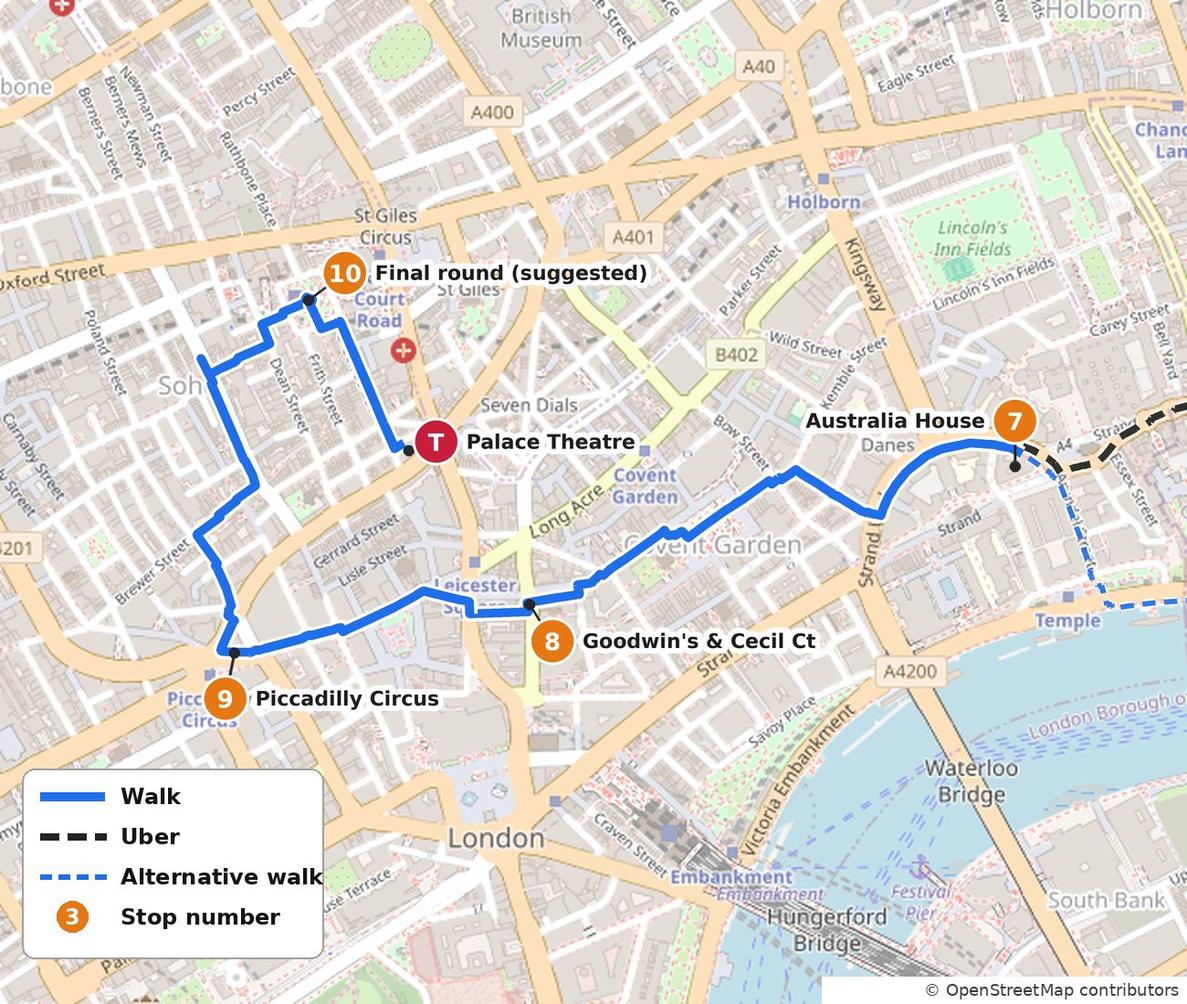
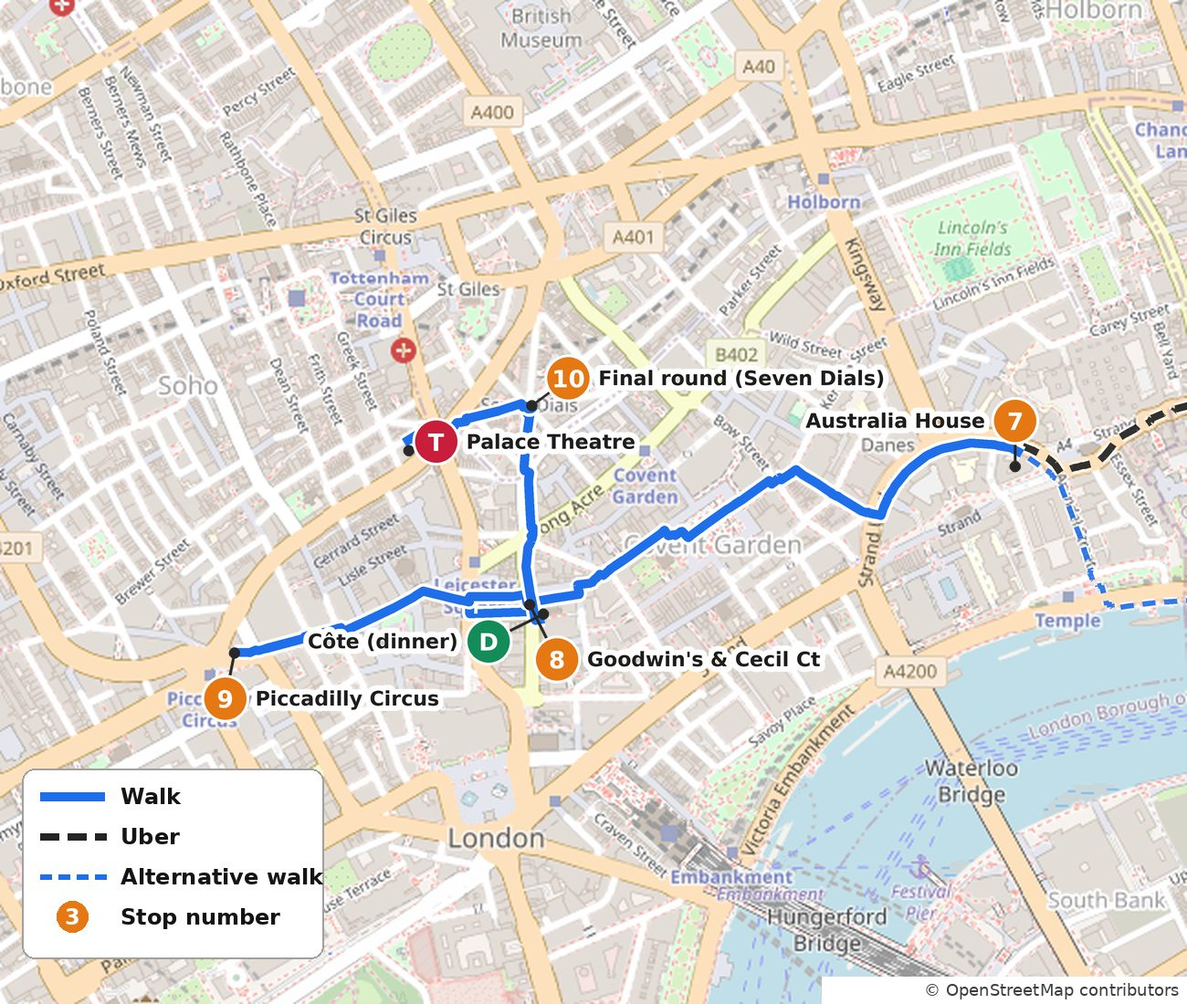
Add Côte dinner and Seven Dials final round

Changed region(s): [[0.2462, 0.34, 0.7692, 0.68], [0.1538, 0.2473, 0.5538, 0.4636], [0.1538, 0.4018, 0.2154, 0.68]]

diff --git a/index.html b/index.html
@@ -137,8 +137,8 @@ Piccadilly line from Heathrow Terminals 2 &amp; 3 toward <b>Cockfosters</b>, 17 
 <div class="top"><span class="time">~9:00 pm</span><span class="badge uber">Uber</span><span class="dur">15–25 min</span></div>
 <div class="title">Rules → hotel</div><div class="body">Maiden Lane is pedestrian: set pickup on <b>Southampton St</b> or the <b>Strand</b>. Black cabs pass on the Strand.</div><div class="btns"><a class="btn g" href="https://www.google.com/maps/dir/?api=1&amp;origin=51.51083,-0.12319&amp;destination=51.52990,-0.12580&amp;travelmode=driving" target="_blank" rel="noopener">Google Maps</a><a class="btn a" href="https://maps.apple.com/?saddr=51.51083,-0.12319&amp;daddr=51.52990,-0.12580&amp;dirflg=d" target="_blank" rel="noopener">Apple Maps</a><a class="btn u" href="https://m.uber.com/ul/?action=setPickup&amp;pickup=my_location&amp;dropoff%5Blatitude%5D=51.52990&amp;dropoff%5Blongitude%5D=-0.12580&amp;dropoff%5Bnickname%5D=St+Pancras+London+hotel" target="_blank" rel="noopener">Uber</a></div></div></div></div><details class="places"><summary>Open any stop on a map</summary><ul><li><span>Hotel</span><a class="pin g" href="https://www.google.com/maps/search/?api=1&amp;query=51.52990,-0.12580" target="_blank" rel="noopener">Google</a><a class="pin a" href="https://maps.apple.com/?ll=51.52990,-0.12580&amp;q=St+Pancras+London+hotel" target="_blank" rel="noopener">Apple</a></li><li><span>Option B: Euston (Tube)</span><a class="pin g" href="https://www.google.com/maps/search/?api=1&amp;query=51.52737,-0.13275" target="_blank" rel="noopener">Google</a><a class="pin a" href="https://maps.apple.com/?ll=51.52737,-0.13275&amp;q=Euston+Underground+station" target="_blank" rel="noopener">Apple</a></li><li><span>1 · The Queens Arms</span><a class="pin g" href="https://www.google.com/maps/search/?api=1&amp;query=51.49259,-0.13918" target="_blank" rel="noopener">Google</a><a class="pin a" href="https://maps.apple.com/?ll=51.49259,-0.13918&amp;q=The+Queens+Arms" target="_blank" rel="noopener">Apple</a></li><li><span>2 · Victoria Memorial</span><a class="pin g" href="https://www.google.com/maps/search/?api=1&amp;query=51.50184,-0.14059" target="_blank" rel="noopener">Google</a><a class="pin a" href="https://maps.apple.com/?ll=51.50184,-0.14059&amp;q=Victoria+Memorial" target="_blank" rel="noopener">Apple</a></li><li><span>3 · Blue Bridge</span><a class="pin g" href="https://www.google.com/maps/search/?api=1&amp;query=51.50232,-0.13520" target="_blank" rel="noopener">Google</a><a class="pin a" href="https://maps.apple.com/?ll=51.50232,-0.13520&amp;q=Blue+Bridge,+St+James%27s+Park" target="_blank" rel="noopener">Apple</a></li><li><span>4 · Westminster Abbey</span><a class="pin g" href="https://www.google.com/maps/search/?api=1&amp;query=51.49944,-0.12800" target="_blank" rel="noopener">Google</a><a class="pin a" href="https://maps.apple.com/?ll=51.49944,-0.12800&amp;q=Westminster+Abbey" target="_blank" rel="noopener">Apple</a></li><li><span>5 · Westminster Bridge</span><a class="pin g" href="https://www.google.com/maps/search/?api=1&amp;query=51.50085,-0.12178" target="_blank" rel="noopener">Google</a><a class="pin a" href="https://maps.apple.com/?ll=51.50085,-0.12178&amp;q=Westminster+Bridge" target="_blank" rel="noopener">Apple</a></li><li><span>6 · Downing St gates</span><a class="pin g" href="https://www.google.com/maps/search/?api=1&amp;query=51.50318,-0.12632" target="_blank" rel="noopener">Google</a><a class="pin a" href="https://maps.apple.com/?ll=51.50318,-0.12632&amp;q=Downing+Street" target="_blank" rel="noopener">Apple</a></li><li><span>7 · Horse Guards</span><a class="pin g" href="https://www.google.com/maps/search/?api=1&amp;query=51.50478,-0.12690" target="_blank" rel="noopener">Google</a><a class="pin a" href="https://maps.apple.com/?ll=51.50478,-0.12690&amp;q=Horse+Guards" target="_blank" rel="noopener">Apple</a></li><li><span>8 · Trafalgar Square</span><a class="pin g" href="https://www.google.com/maps/search/?api=1&amp;query=51.50790,-0.12810" target="_blank" rel="noopener">Google</a><a class="pin a" href="https://maps.apple.com/?ll=51.50790,-0.12810&amp;q=Trafalgar+Square" target="_blank" rel="noopener">Apple</a></li><li><span>9 · Covent Garden Piazza</span><a class="pin g" href="https://www.google.com/maps/search/?api=1&amp;query=51.51198,-0.12274" target="_blank" rel="noopener">Google</a><a class="pin a" href="https://maps.apple.com/?ll=51.51198,-0.12274&amp;q=Covent+Garden" target="_blank" rel="noopener">Apple</a></li><li><span>10 · Rules</span><a class="pin g" href="https://www.google.com/maps/search/?api=1&amp;query=51.51083,-0.12319" target="_blank" rel="noopener">Google</a><a class="pin a" href="https://maps.apple.com/?ll=51.51083,-0.12319&amp;q=Rules" target="_blank" rel="noopener">Apple</a></li></ul></details></section>
 <section id="tue" class="tab"><div class="priv">Host copy, keep private</div><h2>Tuesday 17 Nov <small>The Hogwarts Challenge</small></h2>
-<button class="mapbtn" data-src="img/tue_overview.jpg"><img src="img/tue_overview.jpg" alt="Whole day. Numbers = the 10 game stops; L lunch, T theatre."><span class="zoomhint">Tap to enlarge</span></button><div class="cap">Whole day. Numbers = the 10 game stops; L lunch, T theatre.</div><div class="thumbs"><button class="thumb" data-src="img/tue_morning.jpg"><img src="img/tue_morning.jpg" alt="Morning: KX → Borough" loading="lazy"><span>Morning: KX → Borough</span></button><button class="thumb" data-src="img/tue_west.jpg"><img src="img/tue_west.jpg" alt="Afternoon: Strand → theatre" loading="lazy"><span>Afternoon: Strand → theatre</span></button></div>
-<div class="sum">Walking ≈ <b>6.7 km</b> (9.0 km if you walk after lunch) · Tube ×1 · Uber ×1–2 · at Honest Burgers ~11:50</div>
+<button class="mapbtn" data-src="img/tue_overview.jpg"><img src="img/tue_overview.jpg" alt="Whole day. Numbers = the 10 game stops; L lunch, D dinner (Côte), T theatre."><span class="zoomhint">Tap to enlarge</span></button><div class="cap">Whole day. Numbers = the 10 game stops; L lunch, D dinner (Côte), T theatre.</div><div class="thumbs"><button class="thumb" data-src="img/tue_morning.jpg"><img src="img/tue_morning.jpg" alt="Morning: KX → Borough" loading="lazy"><span>Morning: KX → Borough</span></button><button class="thumb" data-src="img/tue_west.jpg"><img src="img/tue_west.jpg" alt="Afternoon: Strand → theatre" loading="lazy"><span>Afternoon: Strand → theatre</span></button></div>
+<div class="sum">Walking ≈ <b>6.7 km</b> (9.1 km if you walk after lunch) · Tube ×1 · Uber ×1–2 · at Honest Burgers ~11:50</div>
 <div class="tl"><div class="item stop"><div class="dot">•</div><div class="card"><div class="top"><span class="time">8:00–8:40</span><span class="badge stop">Stop</span></div>
 <div class="title">Breakfast: Booking Office 1869 (in the hotel)</div><div class="body">Planned, not reserved. Mention the coeliac requirement. Ask for the bill a little early.</div><div class="btns"><a class="btn g sm" href="https://www.google.com/maps/search/?api=1&amp;query=51.53010,-0.12572" target="_blank" rel="noopener">Google pin</a><a class="btn a sm" href="https://maps.apple.com/?ll=51.53010,-0.12572&amp;q=Booking+Office+1869" target="_blank" rel="noopener">Apple pin</a></div></div></div><div class="item walk"><div class="dot">1</div><div class="card">
 <div class="top"><span class="time">8:40–8:43</span><span class="badge walk">Walk</span><span class="dur">2 min · 0.2 km</span></div>
@@ -160,18 +160,18 @@ Piccadilly line from Heathrow Terminals 2 &amp; 3 toward <b>Cockfosters</b>, 17 
 <div class="top"><span class="time">2:00–2:55</span><span class="badge walk">Walk</span><span class="dur">15 min · 1.1 km</span></div>
 <div class="title">→ ⑧ Goodwin's Court → Cecil Court</div><div class="body">Through Covent Garden (King St) to Goodwin's Court off St Martin's Lane, then across to Cecil Court. Round 8 along the way.</div><div class="btns"><a class="btn g" href="https://www.google.com/maps/dir/?api=1&amp;origin=51.51287,-0.11559&amp;destination=51.51073,-0.12766&amp;travelmode=walking&amp;waypoints=51.51095,-0.12633" target="_blank" rel="noopener">Google Maps</a><a class="btn a" href="https://maps.apple.com/?saddr=51.51287,-0.11559&amp;daddr=51.51073,-0.12766&amp;dirflg=w" target="_blank" rel="noopener">Apple Maps</a></div></div></div><div class="item walk"><div class="dot">10</div><div class="card">
 <div class="top"><span class="time">2:55–3:30</span><span class="badge walk">Walk</span><span class="dur">6 min · 0.4 km</span></div>
-<div class="title">Cecil Court → ⑨ Piccadilly Circus</div><div class="body">Cross Charing Cross Rd and go <b>straight on</b> via Leicester Sq. Don't head north (toward Cambridge Circus). Round 9 at Piccadilly, done by ~3:30.</div><div class="btns"><a class="btn g" href="https://www.google.com/maps/dir/?api=1&amp;origin=51.51071,-0.12834&amp;destination=51.51014,-0.13394&amp;travelmode=walking" target="_blank" rel="noopener">Google Maps</a><a class="btn a" href="https://maps.apple.com/?saddr=51.51071,-0.12834&amp;daddr=51.51014,-0.13394&amp;dirflg=w" target="_blank" rel="noopener">Apple Maps</a></div></div></div><div class="item stop"><div class="dot">•</div><div class="card"><div class="top"><span class="time">3:30–4:30</span><span class="badge stop">Stop</span></div>
-<div class="title">Seated break: coffee &amp; rest</div><div class="body">Somewhere comfortable near Piccadilly / west Soho. No rush; the afternoon has ~45 min more slack than before.</div></div></div><div class="item stop"><div class="dot">•</div><div class="card"><div class="top"><span class="time">4:30–5:30</span><span class="badge stop">Stop</span></div>
-<div class="title">Dinner (gluten-free spot TBD)</div><div class="body">Near the theatre. Restaurant still to be confirmed. Mention the coeliac requirement.</div></div></div><div class="item walk"><div class="dot">11</div><div class="card">
-<div class="top"><span class="time">5:30–5:50</span><span class="badge walk">Walk</span><span class="dur">from dinner</span></div>
-<div class="title">Dinner → ⑩ Final round (suggested: Soho Square)</div>
-<div class="body">Walk from the restaurant to Soho Square (buttons start from where you are). Suggested spot only: check the sightline first, then do the reveal.</div>
-<div class="btns"><a class="btn g" href="https://www.google.com/maps/dir/?api=1&amp;destination=51.51530,-0.13220&amp;travelmode=walking" target="_blank" rel="noopener">Google Maps</a><a class="btn a" href="https://maps.apple.com/?daddr=51.51530,-0.13220&amp;dirflg=w" target="_blank" rel="noopener">Apple Maps</a></div></div></div><div class="item walk"><div class="dot">12</div><div class="card">
-<div class="top"><span class="time">5:50–5:55</span><span class="badge walk">Walk</span><span class="dur">4 min · 0.3 km</span></div>
-<div class="title">Soho Square → Palace Theatre</div><div class="body">Down Greek or Frith St to Cambridge Circus.<div class="warnbox"><b>Be at the Palace Theatre by 6:00 sharp.</b> The theatre asks you to arrive 1 hour early; bags are searched and latecomers aren't admitted.</div></div><div class="btns"><a class="btn g" href="https://www.google.com/maps/dir/?api=1&amp;origin=51.51530,-0.13220&amp;destination=51.51310,-0.12984&amp;travelmode=walking" target="_blank" rel="noopener">Google Maps</a><a class="btn a" href="https://maps.apple.com/?saddr=51.51530,-0.13220&amp;daddr=51.51310,-0.12984&amp;dirflg=w" target="_blank" rel="noopener">Apple Maps</a></div></div></div><div class="item stop"><div class="dot">•</div><div class="card"><div class="top"><span class="time">7:00</span><span class="badge stop">Stop</span></div>
+<div class="title">Cecil Court → ⑨ Piccadilly Circus</div><div class="body">Cross Charing Cross Rd and go <b>straight on</b> via Leicester Sq. Don't head north (toward Cambridge Circus). Round 9 at Piccadilly, done by ~3:30.</div><div class="btns"><a class="btn g" href="https://www.google.com/maps/dir/?api=1&amp;origin=51.51071,-0.12834&amp;destination=51.51014,-0.13394&amp;travelmode=walking" target="_blank" rel="noopener">Google Maps</a><a class="btn a" href="https://maps.apple.com/?saddr=51.51071,-0.12834&amp;daddr=51.51014,-0.13394&amp;dirflg=w" target="_blank" rel="noopener">Apple Maps</a></div></div></div><div class="item stop"><div class="dot">•</div><div class="card"><div class="top"><span class="time">3:30–4:20</span><span class="badge stop">Stop</span></div>
+<div class="title">Seated break: coffee &amp; rest</div><div class="body">Somewhere comfortable near Piccadilly / Leicester Square. No rush.</div></div></div><div class="item walk"><div class="dot">11</div><div class="card">
+<div class="top"><span class="time">4:20–4:30</span><span class="badge walk">Walk</span><span class="dur">8 min · 0.6 km</span></div>
+<div class="title">Piccadilly Circus → Côte St Martin's Lane (dinner)</div><div class="body">Via Leicester Square, Bear St and St Martin's Court to St Martin's Lane.</div><div class="btns"><a class="btn g" href="https://www.google.com/maps/dir/?api=1&amp;origin=51.51014,-0.13394&amp;destination=51.51071,-0.12668&amp;travelmode=walking" target="_blank" rel="noopener">Google Maps</a><a class="btn a" href="https://maps.apple.com/?saddr=51.51014,-0.13394&amp;daddr=51.51071,-0.12668&amp;dirflg=w" target="_blank" rel="noopener">Apple Maps</a></div></div></div><div class="item stop"><div class="dot">D</div><div class="card"><div class="top"><span class="time">4:30–5:30</span><span class="badge stop">Dinner</span></div>
+<div class="title">Dinner: Côte St Martin's Lane</div><div class="body">French brasserie · 50–51 St Martin's Lane, London WC2N 4EA · <a class="tel" href="tel:+442073799747">020 7379 9747</a><div class="warnbox"><b>Not booked yet.</b> Book for 2 at 4:30 pm on Tue 17 Nov.</div>Coeliac UK accredited, with a dedicated gluten-free prep area and utensils. Tell them Nicole is coeliac <b>when booking</b> and <b>again when ordering</b>. Ask whether the frites go through a dedicated fryer. All steaks and sauces are gluten-free.</div><div class="btns"><a class="btn x" href="https://www.cote.co.uk/book-a-table/step1" target="_blank" rel="noopener">Book a table (cote.co.uk)</a><a class="btn x" href="https://www.cote.co.uk/our-philosophy/gluten-free-menu" target="_blank" rel="noopener">Gluten-free menu</a><a class="btn g sm" href="https://www.google.com/maps/search/?api=1&amp;query=51.51071,-0.12668" target="_blank" rel="noopener">Google Maps</a><a class="btn a sm" href="https://maps.apple.com/?ll=51.51071,-0.12668&amp;q=C%C3%B4te+St+Martin%27s+Lane" target="_blank" rel="noopener">Apple Maps</a></div></div></div><div class="item walk"><div class="dot">12</div><div class="card">
+<div class="top"><span class="time">5:30–5:35</span><span class="badge walk">Walk</span><span class="dur">5 min · 0.4 km</span></div>
+<div class="title">Côte → ⑩ Final round at Seven Dials</div><div class="body">Straight up St Martin's Lane (it becomes Monmouth St) to the Seven Dials pillar. <b>Round 10: ~5:36–5:45.</b> The theatre is about 270 m west along Earlham St, so check the sightline and do the round facing away from Earlham St.</div><div class="btns"><a class="btn g" href="https://www.google.com/maps/dir/?api=1&amp;origin=51.51071,-0.12668&amp;destination=51.51376,-0.12695&amp;travelmode=walking" target="_blank" rel="noopener">Google Maps</a><a class="btn a" href="https://maps.apple.com/?saddr=51.51071,-0.12668&amp;daddr=51.51376,-0.12695&amp;dirflg=w" target="_blank" rel="noopener">Apple Maps</a></div></div></div><div class="item walk"><div class="dot">12b</div><div class="card">
+<div class="top"><span class="time">5:45–5:50</span><span class="badge walk">Walk</span><span class="dur">4 min · 0.3 km</span></div>
+<div class="title">Seven Dials → Palace Theatre (the reveal)</div><div class="body">West along Earlham St to Cambridge Circus.<div class="warnbox"><b>Be at the Palace Theatre by 6:00 sharp.</b> The theatre asks you to arrive 1 hour early; bags are searched and latecomers aren't admitted.</div></div><div class="btns"><a class="btn g" href="https://www.google.com/maps/dir/?api=1&amp;origin=51.51376,-0.12695&amp;destination=51.51310,-0.12984&amp;travelmode=walking" target="_blank" rel="noopener">Google Maps</a><a class="btn a" href="https://maps.apple.com/?saddr=51.51376,-0.12695&amp;daddr=51.51310,-0.12984&amp;dirflg=w" target="_blank" rel="noopener">Apple Maps</a></div></div></div><div class="item stop"><div class="dot">•</div><div class="card"><div class="top"><span class="time">7:00</span><span class="badge stop">Stop</span></div>
 <div class="title">Harry Potter and the Cursed Child</div><div class="body">Palace Theatre, 113 Shaftesbury Ave, W1D 5AY · <b>Stalls Row H, seats 14 &amp; 15</b> · e-tickets emailed 24 h before; also on the order page.</div><div class="secret" data-k="cc"></div><div class="btns"><a class="btn g sm" href="https://www.google.com/maps/search/?api=1&amp;query=51.51310,-0.12984" target="_blank" rel="noopener">Google pin</a><a class="btn a sm" href="https://maps.apple.com/?ll=51.51310,-0.12984&amp;q=Palace+Theatre" target="_blank" rel="noopener">Apple pin</a></div></div></div><div class="item uber"><div class="dot">13</div><div class="card">
 <div class="top"><span class="time">After show</span><span class="badge uber">Uber</span><span class="dur">15–25 min</span></div>
-<div class="title">Palace Theatre → hotel</div><div class="body">Walk a couple of minutes away from the crowds before requesting. <i>Tube alt:</i> Leicester Sq (4 min walk) → Piccadilly line toward Cockfosters, 4 stops to King's Cross St Pancras.</div><div class="btns"><a class="btn g" href="https://www.google.com/maps/dir/?api=1&amp;origin=51.51310,-0.12984&amp;destination=51.52990,-0.12580&amp;travelmode=driving" target="_blank" rel="noopener">Google Maps</a><a class="btn a" href="https://maps.apple.com/?saddr=51.51310,-0.12984&amp;daddr=51.52990,-0.12580&amp;dirflg=d" target="_blank" rel="noopener">Apple Maps</a><a class="btn u" href="https://m.uber.com/ul/?action=setPickup&amp;pickup=my_location&amp;dropoff%5Blatitude%5D=51.52990&amp;dropoff%5Blongitude%5D=-0.12580&amp;dropoff%5Bnickname%5D=St+Pancras+London+hotel" target="_blank" rel="noopener">Uber</a><a class="btn x" href="https://www.google.com/maps/dir/?api=1&amp;origin=51.51139,-0.12843&amp;destination=51.53168,-0.12354&amp;travelmode=transit" target="_blank" rel="noopener">Tube alt (Google)</a></div></div></div></div><details class="places"><summary>Open any stop on a map</summary><ul><li><span>Hotel / Booking Office 1869</span><a class="pin g" href="https://www.google.com/maps/search/?api=1&amp;query=51.53010,-0.12572" target="_blank" rel="noopener">Google</a><a class="pin a" href="https://maps.apple.com/?ll=51.53010,-0.12572&amp;q=Booking+Office+1869" target="_blank" rel="noopener">Apple</a></li><li><span>① St Pancras frontage</span><a class="pin g" href="https://www.google.com/maps/search/?api=1&amp;query=51.52935,-0.12585" target="_blank" rel="noopener">Google</a><a class="pin a" href="https://maps.apple.com/?ll=51.52935,-0.12585&amp;q=St+Pancras" target="_blank" rel="noopener">Apple</a></li><li><span>② Platform 9¾</span><a class="pin g" href="https://www.google.com/maps/search/?api=1&amp;query=51.53219,-0.12391" target="_blank" rel="noopener">Google</a><a class="pin a" href="https://maps.apple.com/?ll=51.53219,-0.12391&amp;q=Platform+9+3%2F4" target="_blank" rel="noopener">Apple</a></li><li><span>Bank (Tube)</span><a class="pin g" href="https://www.google.com/maps/search/?api=1&amp;query=51.51340,-0.08909" target="_blank" rel="noopener">Google</a><a class="pin a" href="https://maps.apple.com/?ll=51.51340,-0.08909&amp;q=Bank+station" target="_blank" rel="noopener">Apple</a></li><li><span>③ Leadenhall Market</span><a class="pin g" href="https://www.google.com/maps/search/?api=1&amp;query=51.51273,-0.08340" target="_blank" rel="noopener">Google</a><a class="pin a" href="https://maps.apple.com/?ll=51.51273,-0.08340&amp;q=Leadenhall+Market" target="_blank" rel="noopener">Apple</a></li><li><span>④ St Paul&#x27;s</span><a class="pin g" href="https://www.google.com/maps/search/?api=1&amp;query=51.51320,-0.09870" target="_blank" rel="noopener">Google</a><a class="pin a" href="https://maps.apple.com/?ll=51.51320,-0.09870&amp;q=St+Paul%27s+Cathedral" target="_blank" rel="noopener">Apple</a></li><li><span>⑤ Millennium Bridge</span><a class="pin g" href="https://www.google.com/maps/search/?api=1&amp;query=51.50950,-0.09860" target="_blank" rel="noopener">Google</a><a class="pin a" href="https://maps.apple.com/?ll=51.50950,-0.09860&amp;q=Millennium+Bridge" target="_blank" rel="noopener">Apple</a></li><li><span>⑥ Borough Market, Stoney St</span><a class="pin g" href="https://www.google.com/maps/search/?api=1&amp;query=51.50534,-0.09120" target="_blank" rel="noopener">Google</a><a class="pin a" href="https://maps.apple.com/?ll=51.50534,-0.09120&amp;q=Stoney+Street" target="_blank" rel="noopener">Apple</a></li><li><span>Honest Burgers</span><a class="pin g" href="https://www.google.com/maps/search/?api=1&amp;query=51.50458,-0.09106" target="_blank" rel="noopener">Google</a><a class="pin a" href="https://maps.apple.com/?ll=51.50458,-0.09106&amp;q=Honest+Burgers+Borough" target="_blank" rel="noopener">Apple</a></li><li><span>⑦ Australia House</span><a class="pin g" href="https://www.google.com/maps/search/?api=1&amp;query=51.51287,-0.11559" target="_blank" rel="noopener">Google</a><a class="pin a" href="https://maps.apple.com/?ll=51.51287,-0.11559&amp;q=Australia+House" target="_blank" rel="noopener">Apple</a></li><li><span>⑧ Goodwin&#x27;s Court</span><a class="pin g" href="https://www.google.com/maps/search/?api=1&amp;query=51.51095,-0.12633" target="_blank" rel="noopener">Google</a><a class="pin a" href="https://maps.apple.com/?ll=51.51095,-0.12633&amp;q=Goodwin%27s+Court" target="_blank" rel="noopener">Apple</a></li><li><span>⑧ Cecil Court</span><a class="pin g" href="https://www.google.com/maps/search/?api=1&amp;query=51.51073,-0.12766" target="_blank" rel="noopener">Google</a><a class="pin a" href="https://maps.apple.com/?ll=51.51073,-0.12766&amp;q=Cecil+Court" target="_blank" rel="noopener">Apple</a></li><li><span>⑨ Piccadilly Circus</span><a class="pin g" href="https://www.google.com/maps/search/?api=1&amp;query=51.51014,-0.13394" target="_blank" rel="noopener">Google</a><a class="pin a" href="https://maps.apple.com/?ll=51.51014,-0.13394&amp;q=Piccadilly+Circus" target="_blank" rel="noopener">Apple</a></li><li><span>⑩ Soho Square (suggested)</span><a class="pin g" href="https://www.google.com/maps/search/?api=1&amp;query=51.51530,-0.13220" target="_blank" rel="noopener">Google</a><a class="pin a" href="https://maps.apple.com/?ll=51.51530,-0.13220&amp;q=Soho+Square" target="_blank" rel="noopener">Apple</a></li><li><span>Palace Theatre</span><a class="pin g" href="https://www.google.com/maps/search/?api=1&amp;query=51.51310,-0.12984" target="_blank" rel="noopener">Google</a><a class="pin a" href="https://maps.apple.com/?ll=51.51310,-0.12984&amp;q=Palace+Theatre" target="_blank" rel="noopener">Apple</a></li></ul></details></section>
+<div class="title">Palace Theatre → hotel</div><div class="body">Walk a couple of minutes away from the crowds before requesting. <i>Tube alt:</i> Leicester Sq (4 min walk) → Piccadilly line toward Cockfosters, 4 stops to King's Cross St Pancras.</div><div class="btns"><a class="btn g" href="https://www.google.com/maps/dir/?api=1&amp;origin=51.51310,-0.12984&amp;destination=51.52990,-0.12580&amp;travelmode=driving" target="_blank" rel="noopener">Google Maps</a><a class="btn a" href="https://maps.apple.com/?saddr=51.51310,-0.12984&amp;daddr=51.52990,-0.12580&amp;dirflg=d" target="_blank" rel="noopener">Apple Maps</a><a class="btn u" href="https://m.uber.com/ul/?action=setPickup&amp;pickup=my_location&amp;dropoff%5Blatitude%5D=51.52990&amp;dropoff%5Blongitude%5D=-0.12580&amp;dropoff%5Bnickname%5D=St+Pancras+London+hotel" target="_blank" rel="noopener">Uber</a><a class="btn x" href="https://www.google.com/maps/dir/?api=1&amp;origin=51.51139,-0.12843&amp;destination=51.53168,-0.12354&amp;travelmode=transit" target="_blank" rel="noopener">Tube alt (Google)</a></div></div></div></div><details class="places"><summary>Open any stop on a map</summary><ul><li><span>Hotel / Booking Office 1869</span><a class="pin g" href="https://www.google.com/maps/search/?api=1&amp;query=51.53010,-0.12572" target="_blank" rel="noopener">Google</a><a class="pin a" href="https://maps.apple.com/?ll=51.53010,-0.12572&amp;q=Booking+Office+1869" target="_blank" rel="noopener">Apple</a></li><li><span>① St Pancras frontage</span><a class="pin g" href="https://www.google.com/maps/search/?api=1&amp;query=51.52935,-0.12585" target="_blank" rel="noopener">Google</a><a class="pin a" href="https://maps.apple.com/?ll=51.52935,-0.12585&amp;q=St+Pancras" target="_blank" rel="noopener">Apple</a></li><li><span>② Platform 9¾</span><a class="pin g" href="https://www.google.com/maps/search/?api=1&amp;query=51.53219,-0.12391" target="_blank" rel="noopener">Google</a><a class="pin a" href="https://maps.apple.com/?ll=51.53219,-0.12391&amp;q=Platform+9+3%2F4" target="_blank" rel="noopener">Apple</a></li><li><span>Bank (Tube)</span><a class="pin g" href="https://www.google.com/maps/search/?api=1&amp;query=51.51340,-0.08909" target="_blank" rel="noopener">Google</a><a class="pin a" href="https://maps.apple.com/?ll=51.51340,-0.08909&amp;q=Bank+station" target="_blank" rel="noopener">Apple</a></li><li><span>③ Leadenhall Market</span><a class="pin g" href="https://www.google.com/maps/search/?api=1&amp;query=51.51273,-0.08340" target="_blank" rel="noopener">Google</a><a class="pin a" href="https://maps.apple.com/?ll=51.51273,-0.08340&amp;q=Leadenhall+Market" target="_blank" rel="noopener">Apple</a></li><li><span>④ St Paul&#x27;s</span><a class="pin g" href="https://www.google.com/maps/search/?api=1&amp;query=51.51320,-0.09870" target="_blank" rel="noopener">Google</a><a class="pin a" href="https://maps.apple.com/?ll=51.51320,-0.09870&amp;q=St+Paul%27s+Cathedral" target="_blank" rel="noopener">Apple</a></li><li><span>⑤ Millennium Bridge</span><a class="pin g" href="https://www.google.com/maps/search/?api=1&amp;query=51.50950,-0.09860" target="_blank" rel="noopener">Google</a><a class="pin a" href="https://maps.apple.com/?ll=51.50950,-0.09860&amp;q=Millennium+Bridge" target="_blank" rel="noopener">Apple</a></li><li><span>⑥ Borough Market, Stoney St</span><a class="pin g" href="https://www.google.com/maps/search/?api=1&amp;query=51.50534,-0.09120" target="_blank" rel="noopener">Google</a><a class="pin a" href="https://maps.apple.com/?ll=51.50534,-0.09120&amp;q=Stoney+Street" target="_blank" rel="noopener">Apple</a></li><li><span>Honest Burgers</span><a class="pin g" href="https://www.google.com/maps/search/?api=1&amp;query=51.50458,-0.09106" target="_blank" rel="noopener">Google</a><a class="pin a" href="https://maps.apple.com/?ll=51.50458,-0.09106&amp;q=Honest+Burgers+Borough" target="_blank" rel="noopener">Apple</a></li><li><span>⑦ Australia House</span><a class="pin g" href="https://www.google.com/maps/search/?api=1&amp;query=51.51287,-0.11559" target="_blank" rel="noopener">Google</a><a class="pin a" href="https://maps.apple.com/?ll=51.51287,-0.11559&amp;q=Australia+House" target="_blank" rel="noopener">Apple</a></li><li><span>⑧ Goodwin&#x27;s Court</span><a class="pin g" href="https://www.google.com/maps/search/?api=1&amp;query=51.51095,-0.12633" target="_blank" rel="noopener">Google</a><a class="pin a" href="https://maps.apple.com/?ll=51.51095,-0.12633&amp;q=Goodwin%27s+Court" target="_blank" rel="noopener">Apple</a></li><li><span>⑧ Cecil Court</span><a class="pin g" href="https://www.google.com/maps/search/?api=1&amp;query=51.51073,-0.12766" target="_blank" rel="noopener">Google</a><a class="pin a" href="https://maps.apple.com/?ll=51.51073,-0.12766&amp;q=Cecil+Court" target="_blank" rel="noopener">Apple</a></li><li><span>⑨ Piccadilly Circus</span><a class="pin g" href="https://www.google.com/maps/search/?api=1&amp;query=51.51014,-0.13394" target="_blank" rel="noopener">Google</a><a class="pin a" href="https://maps.apple.com/?ll=51.51014,-0.13394&amp;q=Piccadilly+Circus" target="_blank" rel="noopener">Apple</a></li><li><span>Côte St Martin&#x27;s Lane (dinner)</span><a class="pin g" href="https://www.google.com/maps/search/?api=1&amp;query=51.51071,-0.12668" target="_blank" rel="noopener">Google</a><a class="pin a" href="https://maps.apple.com/?ll=51.51071,-0.12668&amp;q=C%C3%B4te+St+Martin%27s+Lane" target="_blank" rel="noopener">Apple</a></li><li><span>⑩ Seven Dials (final round)</span><a class="pin g" href="https://www.google.com/maps/search/?api=1&amp;query=51.51376,-0.12695" target="_blank" rel="noopener">Google</a><a class="pin a" href="https://maps.apple.com/?ll=51.51376,-0.12695&amp;q=Seven+Dials" target="_blank" rel="noopener">Apple</a></li><li><span>Palace Theatre</span><a class="pin g" href="https://www.google.com/maps/search/?api=1&amp;query=51.51310,-0.12984" target="_blank" rel="noopener">Google</a><a class="pin a" href="https://maps.apple.com/?ll=51.51310,-0.12984&amp;q=Palace+Theatre" target="_blank" rel="noopener">Apple</a></li></ul></details></section>
 <section id="wed" class="tab"><div class="priv">Host copy, keep private</div><h2>Wednesday 18 Nov <small>Studio Tour day</small></h2>
 <button class="mapbtn" data-src="img/wed_overview.jpg"><img src="img/wed_overview.jpg" alt="Hotel → Victoria line → Victoria Coach Station."><span class="zoomhint">Tap to enlarge</span></button><div class="cap">Hotel → Victoria line → Victoria Coach Station.</div>
 <div class="note warn"><b>Reconfirm with Premium Tours</b> at least 48 h before departure, i.e. by <b>10:15 a.m. Mon 16 Nov</b> (London): <a class="tel" href="tel:+442077131311">+44 20 7713 1311</a> · <a class="tel" href="mailto:bookings@premiumtours.co.uk">bookings@premiumtours.co.uk</a></div>
@@ -195,7 +195,7 @@ Piccadilly line from Heathrow Terminals 2 &amp; 3 toward <b>Cockfosters</b>, 17 
 <div class="res"><div class="rwhen">Mon 16 Nov · 12:00–13:30</div><div class="rtitle">The Queens Arms</div><div class="rbody">11 Warwick Way, London SW1V 1QT · 2 guests · bar tables<br><a class="tel" href="tel:+442039859446">+44 20 3985 9446</a> · booked via SevenRooms</div><div class="secret" data-k="qa"></div><div class="btns"><a class="btn g sm" href="https://www.google.com/maps/search/?api=1&amp;query=51.49259,-0.13918" target="_blank" rel="noopener">Google pin</a><a class="btn a sm" href="https://maps.apple.com/?ll=51.49259,-0.13918&amp;q=The+Queens+Arms" target="_blank" rel="noopener">Apple pin</a></div></div>
 <div class="res"><div class="rwhen">Mon 16 Nov · <b>19:00</b>–21:00</div><div class="rtitle">Rules</div><div class="rbody">35 Maiden Lane, London WC2E 7LB · 2 guests · main dining room<br><a class="tel" href="tel:+442078365314">+44 20 7836 5314</a><br>Updated from 18:00 to 19:00 (the SevenRooms update email confirms 19:00; older docs say 6 p.m.).<br>Smart dress, no shorts. Cancelling within 24 h or not showing up costs £25 per person.</div><div class="secret" data-k="rules"></div><div class="btns"><a class="btn g sm" href="https://www.google.com/maps/search/?api=1&amp;query=51.51083,-0.12319" target="_blank" rel="noopener">Google pin</a><a class="btn a sm" href="https://maps.apple.com/?ll=51.51083,-0.12319&amp;q=Rules" target="_blank" rel="noopener">Apple pin</a></div></div>
 <div class="res"><div class="rwhen">Tue 17 Nov · 8:00</div><div class="rtitle">Booking Office 1869 (breakfast)</div><div class="rbody">In the hotel. <b>Not reserved yet.</b></div></div>
-<div class="res"><div class="rwhen">Tue 17 Nov · 4:30–5:30</div><div class="rtitle">Dinner (gluten-free spot TBD)</div><div class="rbody"><b>Not chosen yet.</b> Near the Palace Theatre; be at the theatre by 6:00.</div></div>
+<div class="res"><div class="rwhen">Tue 17 Nov · 4:30–5:30</div><div class="rtitle">Côte St Martin's Lane (dinner)</div><div class="rbody">French brasserie · 50–51 St Martin's Lane, London WC2N 4EA · <a class="tel" href="tel:+442073799747">020 7379 9747</a><div class="warnbox"><b>Not booked yet.</b> Book for 2 at 4:30 pm on Tue 17 Nov.</div>Coeliac UK accredited, with a dedicated gluten-free prep area and utensils. Tell them Nicole is coeliac <b>when booking</b> and <b>again when ordering</b>. Ask whether the frites go through a dedicated fryer. All steaks and sauces are gluten-free. Then a ~5 min walk to Seven Dials and on to the Palace Theatre by 6:00.<div class="btns"><a class="btn x" href="https://www.cote.co.uk/book-a-table/step1" target="_blank" rel="noopener">Book a table (cote.co.uk)</a><a class="btn x" href="https://www.cote.co.uk/our-philosophy/gluten-free-menu" target="_blank" rel="noopener">Gluten-free menu</a><a class="btn g sm" href="https://www.google.com/maps/search/?api=1&amp;query=51.51071,-0.12668" target="_blank" rel="noopener">Google Maps</a><a class="btn a sm" href="https://maps.apple.com/?ll=51.51071,-0.12668&amp;q=C%C3%B4te+St+Martin%27s+Lane" target="_blank" rel="noopener">Apple Maps</a></div></div></div>
 <div class="res"><div class="rwhen">Wed 18 Nov · ~7:30–8:00</div><div class="rtitle">Wednesday final dinner</div><div class="rbody"><b>Not chosen yet.</b></div></div>
 <h3>Show &amp; tour</h3>
 <div class="res"><div class="rwhen">Tue 17 Nov · 19:00</div><div class="rtitle">Harry Potter and the Cursed Child</div><div class="rbody">Palace Theatre, 113 Shaftesbury Ave, London W1D 5AY<br><b>Stalls Row H, seats 14 &amp; 15</b> · booked with LondonTheatre.co.uk<br>E-tickets on the order confirmation page; also emailed 24 h before the show.<br>Theatre asks you to arrive 1 hour early; latecomers not admitted. No suitcases or large bags (over 41×31×16 cm); bags are searched.<br>Ticket protection: cancel before 7 p.m. Mon 16 Nov for a rebooking voucher. Help: <a class="tel" href="https://londontheatre.co.uk/support" target="_blank" rel="noopener">londontheatre.co.uk/support</a></div><div class="secret" data-k="cc"></div><div class="btns"><a class="btn g sm" href="https://www.google.com/maps/search/?api=1&amp;query=51.51310,-0.12984" target="_blank" rel="noopener">Google pin</a><a class="btn a sm" href="https://maps.apple.com/?ll=51.51310,-0.12984&amp;q=Palace+Theatre" target="_blank" rel="noopener">Apple pin</a></div></div>
@@ -212,7 +212,7 @@ Piccadilly line from Heathrow Terminals 2 &amp; 3 toward <b>Cockfosters</b>, 17 
 <nav class="tabs"><button data-t="mon"><b>Mon</b><span>16</span></button><button data-t="tue"><b>Tue</b><span>17</span></button><button data-t="wed"><b>Wed</b><span>18</span></button><button data-t="book"><b>Bookings</b><span>&nbsp;</span></button></nav>
 <div id="viewer" hidden><div class="vbar"><button id="vclose">Close</button><button id="vzoom">Zoom +</button></div><div class="vscroll"><img id="vimg" alt=""></div></div>
 <script>(function(){
[2 lines of base64/hex data omitted]
 var tabs=["mon","tue","wed","book"];
 function show(t){if(tabs.indexOf(t)<0)t="mon";
  tabs.forEach(function(x){document.getElementById(x).classList.toggle("on",x===t)});

diff --git a/sw.js b/sw.js
@@ -1,5 +1,5 @@
 // Offline cache: serve cached copy, refresh in background. Only same-origin GETs.
-var V="london-c16f6ac261";
+var V="london-28528854aa";
 var FILES=["./", "./app-icon-180.png", "./app-icon-192.png", "./app-icon-32.png", "./app-icon-512.png", "./favicon.ico", "./img/mon_a.jpg", "./img/mon_b.jpg", "./img/mon_overview.jpg", "./img/mon_tube.jpg", "./img/tue_morning.jpg", "./img/tue_overview.jpg", "./img/tue_west.jpg", "./img/wed_overview.jpg", "./index.html", "./manifest.webmanifest"];
 self.addEventListener("install",function(e){e.waitUntil(caches.open(V).then(function(c){return c.addAll(FILES)}).then(function(){return self.skipWaiting()}))});
 self.addEventListener("activate",function(e){e.waitUntil(caches.keys().then(function(k){return Promise.all(k.filter(function(x){return x!==V}).map(function(x){return caches.delete(x)}))}).then(function(){return self.clients.claim()}))});
